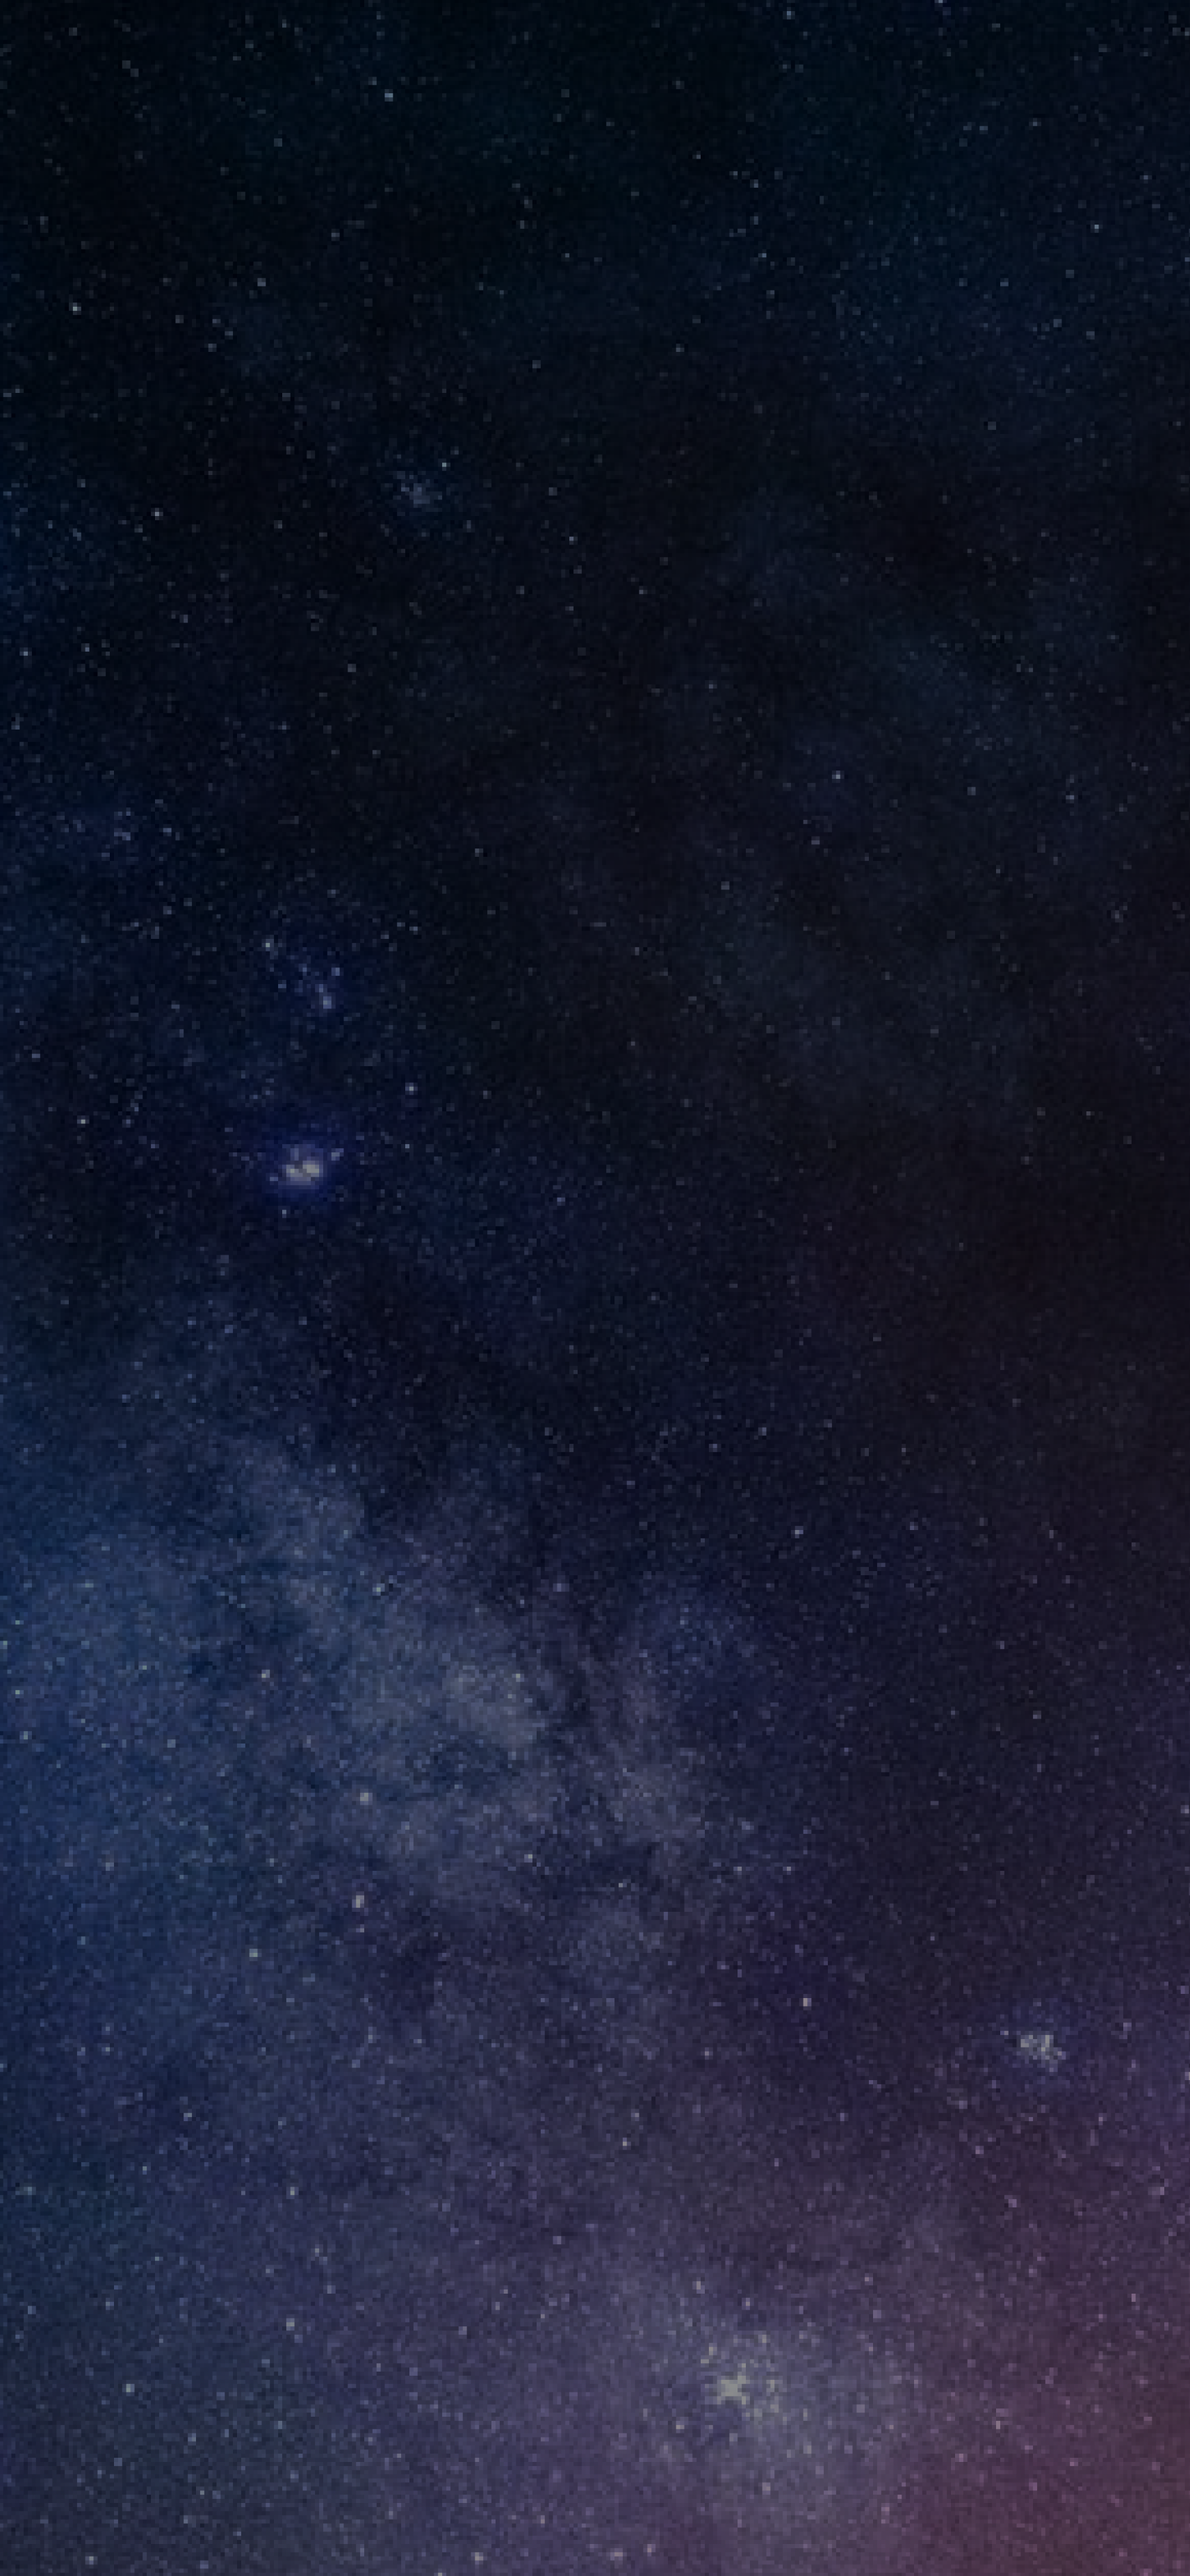
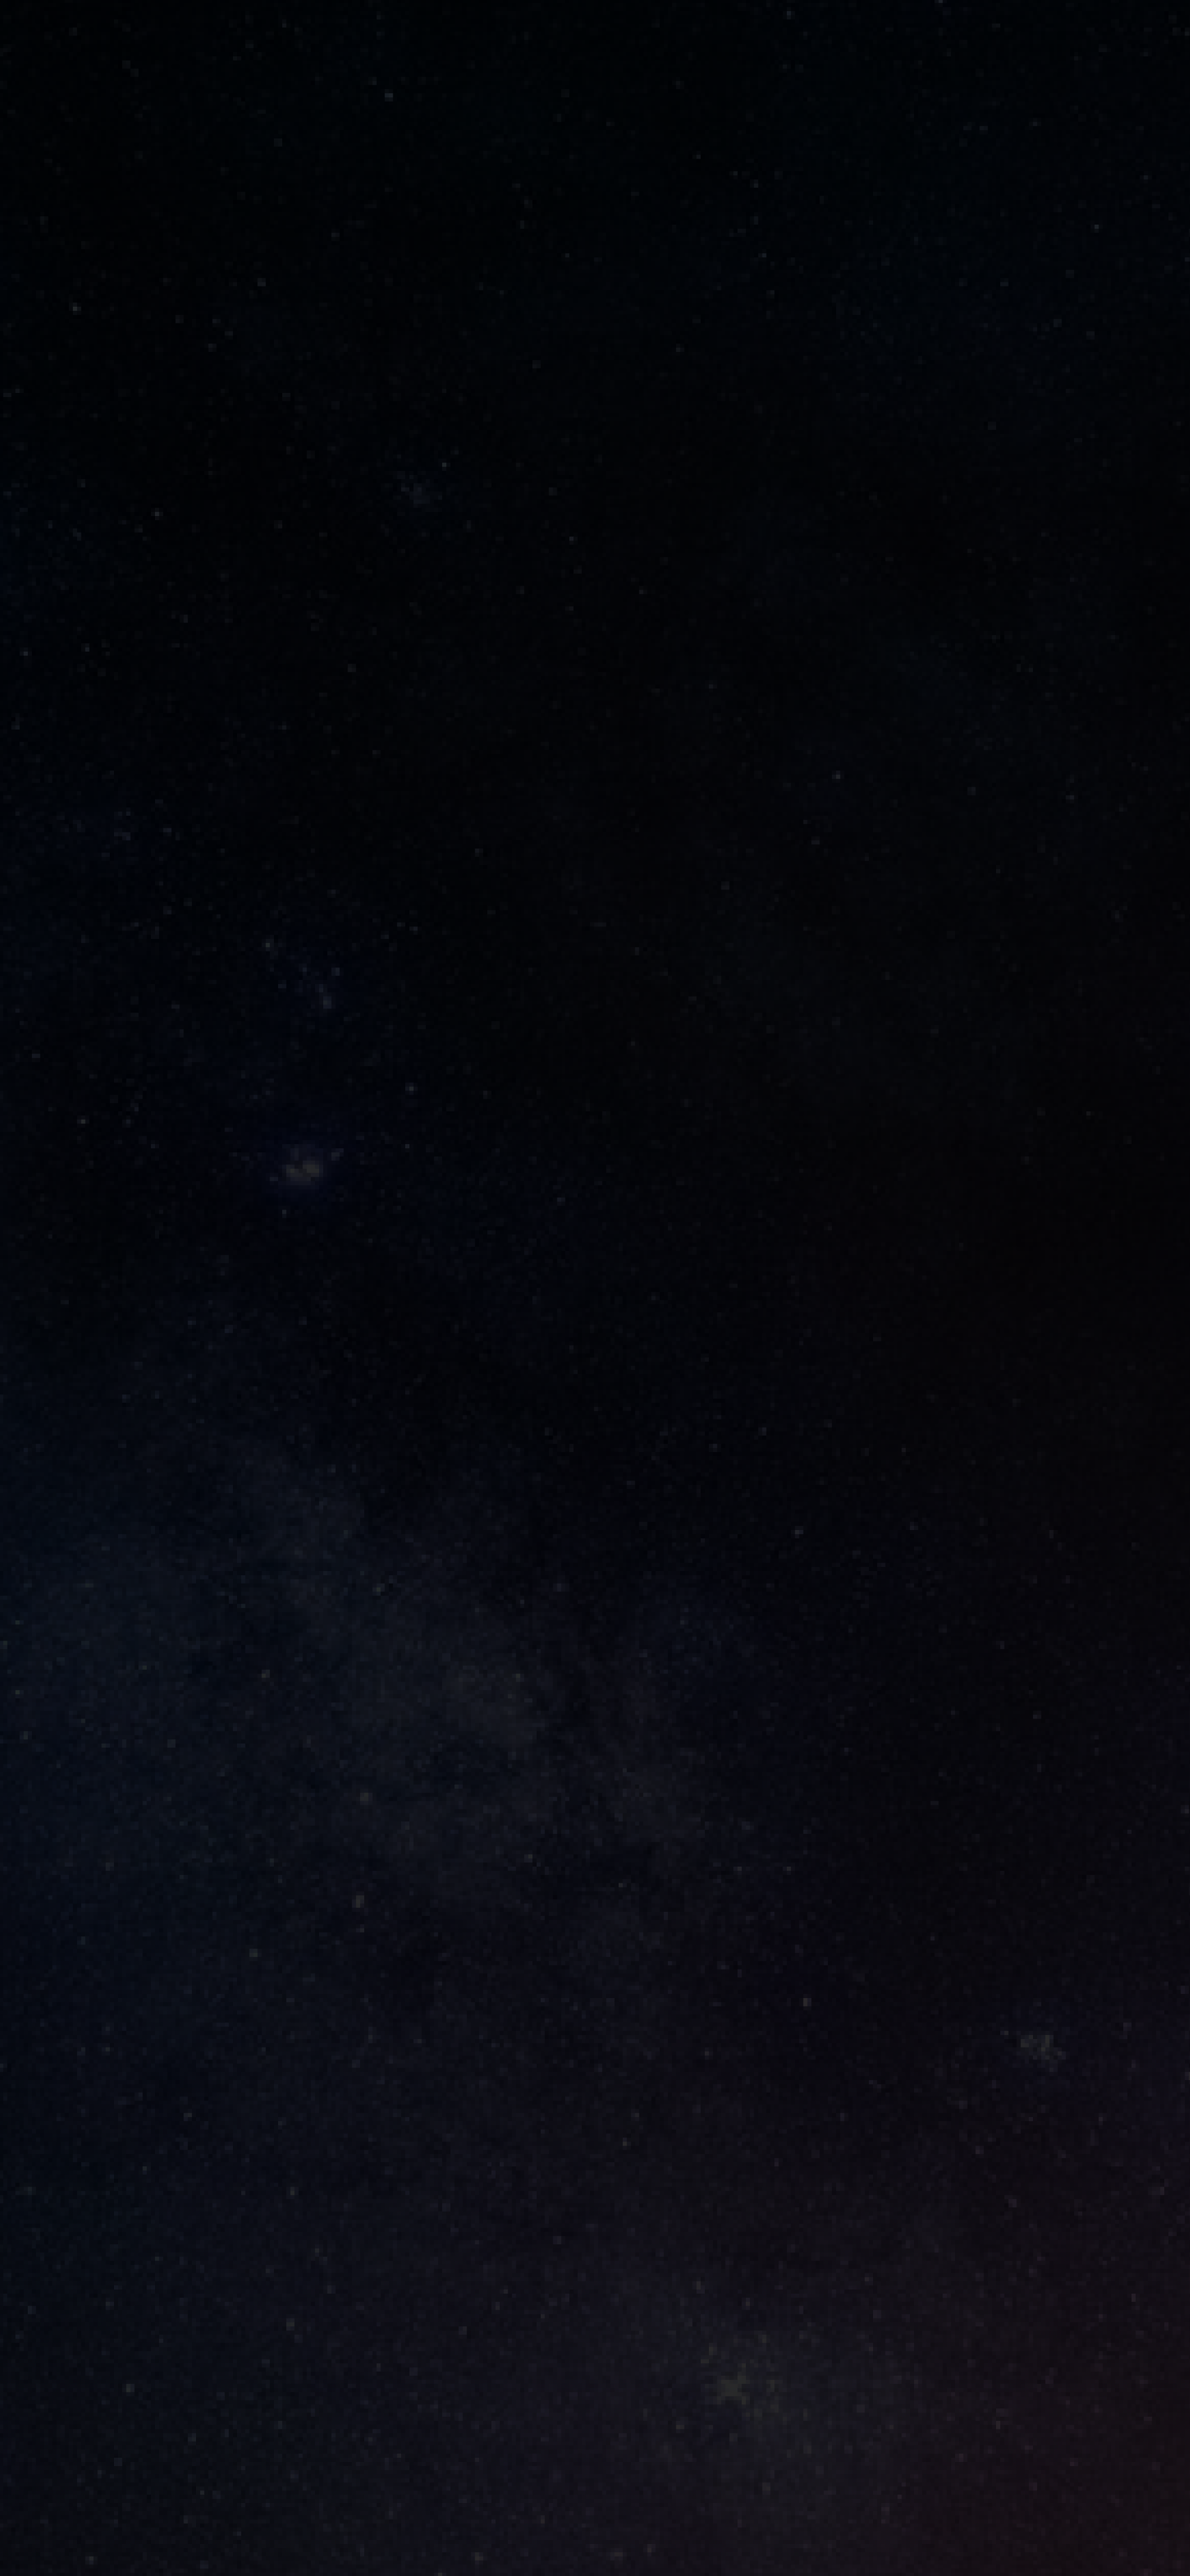
new changes

diff --git a/style.css b/style.css
@@ -17,11 +17,27 @@ body{
       width: 100%;
     }
 
+    .parent{
+        position: relative;
+        background: rgba(rgb(0, 0, 0), rgb(0, 0, 0), rgb(0, 0, 0), 0.5);
+    }
+
     .background{
         width: 100%;
         height: 100%;
         object-fit: fill;
+        position: relative;
         z-index: -1;
+    }
+
+    .picture{
+        width: 400px;
+        height: 550px;
+        top: 75.99px;
+        left: 2px;
+        position: absolute;
+        /* object-fit: fill;
+        z-index: -1; */
     }
   }
   

diff --git a/index.html b/index.html
@@ -8,8 +8,11 @@
     <title>Document</title>
 </head>
 <body>
-    <div>
+    <div class="parent">
         <img src="./Images/Background.png" class="background">
+        <img src="./Images/Nettetal logo.png" class="picture">
     </div>
+
+
 </body>
 </html>
